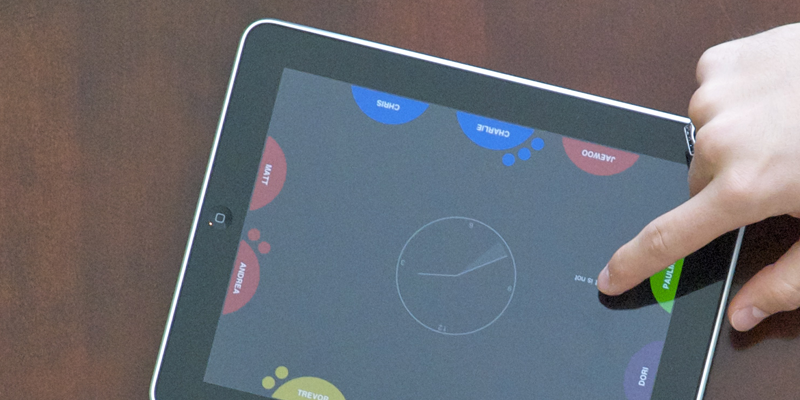
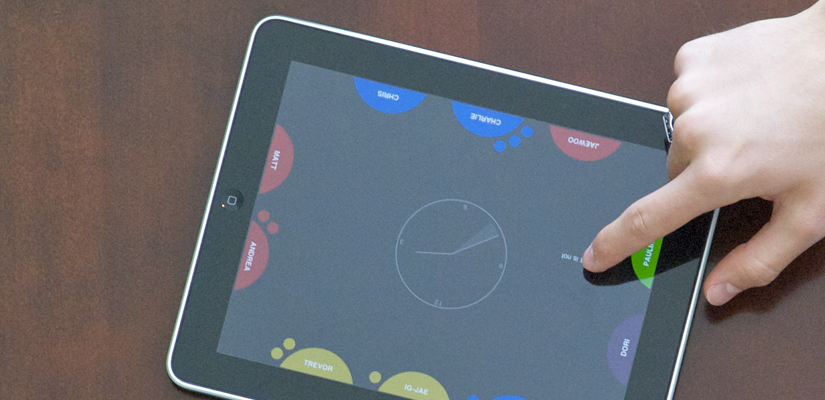
Added google analytics, and fixed an image size problem.

diff --git a/web/static/index.html b/web/static/index.html
@@ -303,5 +303,12 @@
 			</ul>
 		</div>
 	</div>
+	
+	<script src="http://www.google-analytics.com/urchin.js" type="text/javascript"> 
+	</script> 
+	<script type="text/javascript"> 
+	_uacct = "UA-841537-1";
+	urchinTracker();
+	</script>
 </body>
 </html>
